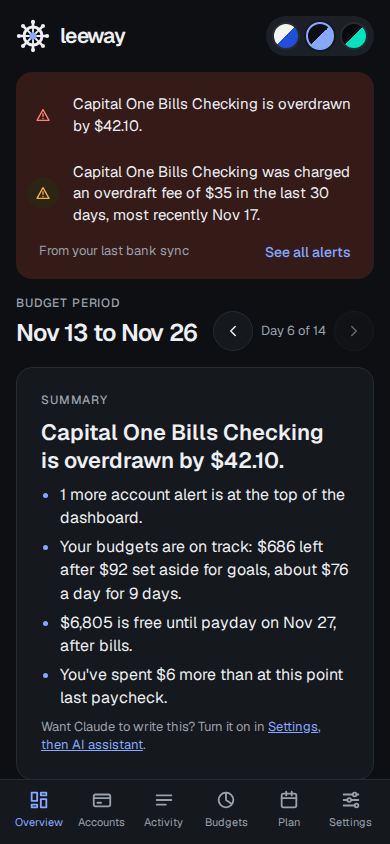
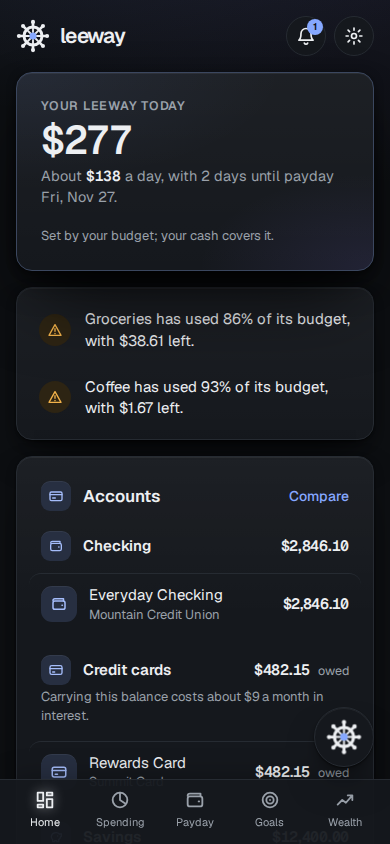
Refresh the README for the five tabs and Ask Leeway, with new screenshots
The top now walks through Home, Spending, Payday, Goals and Wealth, one line
each, then Ask Leeway and what runs across them. Stale names are gone: the
Chat section is now Ask Leeway, grounded in a snapshot of your finances, and
paths to imports, paystubs, bills and the inbox follow the new tabs. A new
Install as an app section covers iPhone, Android and computers.

Screenshots are retaken from a locally seeded server with invented data:
each tab, Home on a phone, Ask Leeway with its starter questions, and the
setup screen. The old overview, accounts, budgets and plan shots are removed.

Changed region(s): [[0.0308, 0.0616, 0.9846, 0.9858], [0.7077, 0.0, 0.8615, 0.0616], [0.8923, 0.0308, 0.9538, 0.0616]]

diff --git a/README.md b/README.md
@@ -4,72 +4,75 @@
 
 # Leeway
 
-A free budget tracker you host yourself, with bank sync and a secure link for
-your AI assistant.
+A free budget tracker you host yourself. It shows what you can safely spend
+today, syncs with your bank, and answers questions about your money from your
+own numbers.
 
 Your financial data stays on your own server. It leaves only to talk to your
-bank, and nothing in Leeway can ever move money.
+bank, and to Claude if you turn on its AI features. Nothing in Leeway can ever
+move money.
 
-**What it does**
+![Home: what you can spend today, a Heads up on two budgets, your accounts, bills due by payday and the latest activity](docs/screenshots/home.png)
 
-- **Budgets** by month, paycheck or week, with a safe amount to spend per day
-  and a warning before you go over.
-- **Bank sync** through Plaid, or **CSV import** and accounts added by hand
-  if you'd rather not connect a bank.
-- **An overview dashboard** you arrange yourself: what is left to spend, net
-  worth, account alerts, money in against money out, and your spending pace.
-- **An accounts dashboard** for one account or several: balances, money in and
-  out, spending by category and recent transactions.
-- **Account alerts** when an account is overdrawn, a card is over its limit, a
-  balance is low or an overdraft fee was charged, and for money leaking away:
-  a charge that went through twice, or a repeating charge that went up in price.
-- **Planning**: bills and subscriptions, recurring charges found for you,
-  savings goals, debt payoff plans, cash until payday (and cash in checking
-  that could earn more in savings, at a stated rate) and net worth.
-- **The weeks ahead** on Payday: the next two weeks, and six weeks a tap
-  deeper, of paydays and bills, plus events like trips and weddings if you
-  connect a calendar by its private link, with what to set aside for each
-  from what past ones cost. Only events likely to cost money are kept.
-- **Trips**: with a calendar linked, the spending around time away, from
-  your calendar or from a run of travel charges, gathered on one page by part
-  (getting there, a place to stay, food, things to do). Each purchase counts
-  for one trip or event only, as in the weeks ahead. A transaction on a trip
-  links to it.
-- **Trip budgets**: plan a coming trip by its parts and it becomes one savings
-  goal, set aside for by the day you leave; during the trip its page shows
-  what is left of each part.
-- **Savings and investments**: savings, retirement and investing accounts
-  sorted for you (or as you mark them), daily balance history, an emergency
-  fund counted in months of essential spending, and your savings rate. An AI
-  assistant can read all of it today.
-- **Credit card interest in dollars**: what carrying each card's balance past
-  the due date costs a month at its APR, and all your cards together. Add a
-  card's APR from its statement.
-- **A tax-ready export**: a year of transactions from every account, hidden
-  ones included, as a CSV grouped by category with totals. A summary at the
-  end gives pay by source, interest, dividends, benefits, tax refunds and
-  rewards, and "Possible income to categorize" for deposits still to sort.
-  Support payments and money from people are never counted as pay.
-  Transfers between your own accounts are left out, and categories that may
-  be deductible are flagged for you to check with a tax pro (Settings, then
-  Data). It is a summary, not tax advice.
-- **An AI coach.** Claude, or any assistant that speaks MCP, can check in on
-  your money with your real numbers. You choose whether it may only look or
-  also change budgets.
-- **Works on laptop and phone**, and installs to your home screen like an app.
+**Five tabs, each answering one question**
+
+- **Home: am I OK right now?** What you can spend today and a Heads up when
+  something needs you, then cards you arrange: every account, bills due by
+  payday, the latest activity and a summary of each tab.
+- **Spending: am I on budget?** This period against your budgets (by month,
+  paycheck or week), your spending pace, each category and every transaction.
+  Step back to earlier periods, or see spending over time and top merchants.
+- **Payday: will I make it to payday?** This paycheck, from pay to what is
+  left for everyday spending, cash until payday and the next two weeks of
+  paydays and bills. A tap deeper: bills and subscriptions (with repeating
+  charges found for you), your pay, and the six weeks ahead.
+- **Goals: am I on track?** What to set aside each paycheck, "Can I afford
+  it?", an emergency fund counted in months of essentials, savings goals in
+  the order they are funded, and yearly costs.
+- **Wealth: am I getting ahead?** Net worth and its trend, then debts and
+  payoff plans, retirement, your savings rate, things you own and owe, and
+  checking money that could earn more in savings.
+
+**Ask Leeway.** A round logo button on every screen opens a chat that answers
+money questions from your own numbers, like "Can I afford a PS5 Pro right
+now?". It can read everything and change nothing. It needs an Anthropic API
+key; without one the button is not there. See [Ask Leeway](#ask-leeway-optional).
+
+**Also**
+
+- **Bank sync** through Plaid, or **CSV import** and accounts added by hand.
+- **Alerts** in an inbox and as push notifications: an overdrawn account, a
+  bill coming due, a budget used up, a charge made twice or a repeating charge
+  gone up in price.
+- **An AI coach over MCP.** Claude, or any assistant that speaks MCP, can
+  check in on your money with your real numbers. You choose whether it may
+  only look or also change budgets.
+- **Installs as an app** on your phone or computer
+  ([how](#install-as-an-app)), with a home-screen widget for iPhone, iPad and
+  Mac.
+- **Never moves money.** Bank access is read-only.
+- **Self-hosted**, on Railway, with Docker or from source.
+- **Trips and events** from a calendar you link by its private link, next to
+  your bills, with what to set aside for each from what past ones cost.
+- **A tax-ready export**: a year of transactions as a CSV grouped by
+  category, with pay, interest and other income summed up and categories that
+  may be deductible flagged (**Settings**, then **Data**). Money from people
+  is never counted as pay. It is a summary, not tax advice.
+- **Three themes**, Night, Harbor and Neon, each light or dark. Color on a
+  number means status only: green is good, and red is kept for problems.
 
 ## Screenshots
 
-![The overview dashboard: what is left to spend, net worth, an account alert, money in against money out and the spending pace](docs/screenshots/overview.png)
-
-| Accounts dashboard                                                                 | Budgets                                                                          |
-| ---------------------------------------------------------------------------------- | -------------------------------------------------------------------------------- |
-| ![The accounts dashboard with every account picked](docs/screenshots/accounts.png) | ![Budgets by category, with what is left per day](docs/screenshots/budgets.png)  |
-| **Plan: goals and cash until payday**                                              | **First run: the setup wizard**                                                  |
-| ![Savings goals with progress and a projected date](docs/screenshots/plan.png)     | ![The first setup screen, asking for the setup code](docs/screenshots/setup.png) |
+| Spending                                                                                                   | Payday                                                                                                |
+| ---------------------------------------------------------------------------------------------------------- | ----------------------------------------------------------------------------------------------------- |
+| ![Spending: spent this paycheck against the budgets, and the spending pace](docs/screenshots/spending.png) | ![Payday: this paycheck from pay to what is left, and cash until payday](docs/screenshots/payday.png) |
+| **Goals**                                                                                                  | **Wealth**                                                                                            |
+| ![Goals: an emergency fund to start, and goals in the order they are funded](docs/screenshots/goals.png)   | ![Wealth: net worth and how it grew over a year](docs/screenshots/wealth.png)                         |
+| **Ask Leeway**                                                                                             | **First run: the setup screens**                                                                      |
+| ![Ask Leeway open beside Home, with questions to start from](docs/screenshots/ask.png)                     | ![The first setup screen, asking for the setup code](docs/screenshots/setup.png)                      |
 
 <p align="center">
-  <img src="docs/screenshots/phone.png" alt="The overview on a phone" width="300">
+  <img src="docs/screenshots/phone.png" alt="Home on a phone, with the tab bar at the bottom" width="300">
 </p>
 
 The screenshots use invented demo data.
@@ -80,6 +83,7 @@ The screenshots use invented demo data.
 - [Bank sync with Plaid](#bank-sync-with-plaid)
 - [Configuration](#configuration)
 - [Connect an AI assistant](#connect-an-ai-assistant)
+- [Install as an app](#install-as-an-app)
 - [Home-screen widget](#home-screen-widget)
 - [Security](#security)
 - [Updating and backups](#updating-and-backups)
@@ -182,8 +186,8 @@ Leeway prints at startup that starts `No account yet`.
 ## Bank sync with Plaid
 
 Bank sync is optional. Without it, import CSV files from your bank
-(**Transactions**, then **Import a file**) or add accounts by hand
-(**Settings**, then **Accounts**). [Plaid](https://plaid.com) is the service
+(**Spending**, then **All activity**, then **+** and **Import a file**) or add
+accounts by hand (**Settings**, then **Accounts**). [Plaid](https://plaid.com) is the service
 many budgeting apps use to reach banks. Leeway uses it only to read balances
 and transactions.
 
@@ -243,10 +247,10 @@ with a note.
 | `PLAID_COUNTRY_CODES`   | No       | Countries to offer banks from, like `US,CA`. Default `US`.             |
 | `PLAID_REDIRECT_URI`    | No       | Needed by some banks that sign in through their own site.              |
 | `SYNC_INTERVAL_MINUTES` | No       | How often to sync banks, default 360. `0` turns it off.                |
-| `ANTHROPIC_API_KEY`     | No       | Turns on Chat, the dashboard summary by Claude and paystub reading.    |
+| `ANTHROPIC_API_KEY`     | No       | Turns on Ask Leeway, the summary by Claude and paystub reading.        |
 | `SUMMARY_MODEL`         | No       | Fixes the summary's Claude model, instead of choosing it in Settings.  |
 | `PAYSTUB_MODEL`         | No       | Fixes the paystub reader's model, instead of choosing it in Settings.  |
-| `CHAT_MODEL`            | No       | Fixes Chat's model, instead of choosing it in Settings.                |
+| `CHAT_MODEL`            | No       | Fixes Ask Leeway's model, instead of choosing it in Settings.          |
 | `RESEND_API_KEY`        | No       | Lets Leeway send the weekly email.                                     |
 | `MAIL_FROM`             | No       | The weekly email's sender, like `Leeway <leeway@example.com>`.         |
 | `DATABASE_SSL`          | No       | `true` or `false`. By default, TLS for any database not on this host.  |
@@ -257,8 +261,9 @@ On Railway, `PUBLIC_URL` is filled in from the generated domain.
 
 ### Claude-written summary (optional)
 
-Leeway writes the dashboard summary from your numbers on its own. To have
-Claude write it instead, set `ANTHROPIC_API_KEY` (from the
+Leeway writes the summary (Home's **Summary** card, which **Edit layout**
+adds, and the weekly email) from your numbers on its own. To have Claude write
+it instead, set `ANTHROPIC_API_KEY` (from the
 [Anthropic Console](https://console.anthropic.com)), then turn on **Have Claude
 write it** in **Settings**, then **AI assistant**. Nothing is sent until you
 turn it on. Claude then gets this period's totals, the Heads up list, bill and
@@ -271,14 +276,15 @@ cent on your own Anthropic account. The model and a monthly limit are set in
 
 ### Paystub import (optional)
 
-With `ANTHROPIC_API_KEY` set, **Import a paystub** appears in **Plan**, then
-**Retirement**, and on a pension's form. Upload a PDF, PNG or JPEG of a
-paystub (a PDF of up to 10 MB or a photo of up to 5 MB, a page or two long)
-and Claude reads its pay, pension, 401(k), 457, 403(b) and HSA figures, this
-period's and the year's.
-You see each figure with the line it came from and how sure Claude is, change
-any of them, and choose whether they update a pension or your monthly
-retirement saving. Nothing is saved until you choose **Save**.
+With `ANTHROPIC_API_KEY` set, **Import a paystub** appears in **Payday**, then
+**Your pay**; in **Wealth**, then **Retirement**, and on a pension's form; in
+**Settings**, then **Paystub**; and in the setup screens. Upload a PDF, PNG or
+JPEG of a paystub (a PDF of up to 10 MB or a photo of up to 5 MB, a page or
+two long) and Claude reads its pay, pension, 401(k), 457, 403(b) and HSA
+figures, this period's and the year's. You see each figure with the line it
+came from and how sure Claude is, change any of them, and choose whether they
+update a pension or your monthly retirement saving. Nothing is saved until you
+choose **Save**.
 
 - The whole file goes to Anthropic as it is, with a fixed instruction. That
   includes any Social Security number, account number or address printed on
@@ -300,20 +306,22 @@ retirement saving. Nothing is saved until you choose **Save**.
 An iPhone photo saved as HEIC is not read yet; take a screenshot of it, or set
 the camera to **Most Compatible**.
 
-### Chat (optional)
+### Ask Leeway (optional)
 
-With `ANTHROPIC_API_KEY` set, **Chat** asks Claude about your money in your
-own words, like "Can I afford a PS5 Pro right now?". **Ask Leeway**, a round
-logo button in the bottom right of every screen, opens it in a box there that
-knows which screen you are on; press and hold any card (or right click it) to
-ask about that card, or press "/". Without a key there is no Chat at all: no
-button, no page.
+With `ANTHROPIC_API_KEY` set, **Ask Leeway** answers questions about your
+money in your own words, like "Can I afford a PS5 Pro right now?". Its round
+logo button sits in the bottom right of every screen and opens a panel there
+that knows which screen you are on. Press and hold any card (or right click
+it) to ask about that card, or press "/". Without a key there is no button and
+no page.
 
-- Claude answers by reading Leeway through the same read-only tools an
-  assistant gets, so it can look at everything and change nothing. A purchase
-  question is checked against the cash you have before payday, the bills due
-  by then, your goals and your budgets, and when it doesn't fit, how many
-  budget periods of saving it takes.
+- Each question goes with a short snapshot of your finances: what you can
+  spend now, this period, bills by payday, debts, net worth, what needs
+  attention, pay, savings and goals. For more, Claude reads Leeway through the
+  same read-only tools an assistant gets, so it can look at everything and
+  change nothing. A purchase question is checked against the cash you have
+  before payday, the bills due by then, your goals and your budgets, and when
+  it doesn't fit, how many budget periods of saving it takes.
 - Tell it something that will matter later, like a trip you are saving for,
   and it remembers it. **Leeway remembers** under the conversation lists each
   thing, and **Forget** deletes it. **Start over** deletes the conversation
@@ -323,17 +331,17 @@ button, no page.
   paid by, or name in a category, goal or account, appear as "someone".
 - The conversation is kept on your server: only the words of each question
   and answer, saved once the answer is finished.
-- Chat runs on Claude Haiku 5.5 unless you pick another model in **Settings**,
-  then **AI models**. Its fixed instructions and tools are cached, which
-  makes each further step of an answer much cheaper. An answer takes up to 6
-  calls, one question runs at a time, at most 10 are asked a minute, and Chat
-  stops for the day after about 600,000 tokens (cache reads count a tenth),
-  starting again at midnight in your time zone. Every call also counts
-  against the monthly limit below.
+- It runs on Claude Haiku 5.5 unless you pick another model for its job
+  (**Chat**) in **Settings**, then **AI models**. Its fixed instructions,
+  tools and snapshot are cached, which makes each further step of an answer
+  much cheaper. An answer takes up to 6 calls, one question runs at a time, at
+  most 10 are asked a minute, and it stops for the day after about 600,000
+  tokens (cache reads count a tenth), starting again at midnight in your time
+  zone. Every call also counts against the monthly limit below.
 
 ### AI models and the monthly limit
 
-Every paid AI call, Chat, the summary and the paystub reader, goes through
+Every paid AI call, Ask Leeway, the summary and the paystub reader, goes through
 one place that picks the model, checks a monthly limit and records what the
 call cost. **Settings**, then **AI models** shows:
 
@@ -347,11 +355,11 @@ How the limit works:
 
 - The month follows the time zone in **Settings**, then **Budgeting**.
 - Before each call, Leeway works out the most it could cost: the prompt
-  (counted free by Anthropic for a paystub file, estimated from its length
-  for the summary's short text and each Chat step) as if every token were a cache write, plus
-  the most output the call may use. If that would take the month past the
-  limit, the call is not made. The summary is then Leeway's own, and the
-  paystub reader says the limit is reached and when it resets.
+  (counted free by Anthropic for a paystub file, estimated from its length for
+  the summary's short text and each Ask Leeway step) as if every token were a
+  cache write, plus the most output the call may use. If that would take the
+  month past the limit, the call is not made. The summary is then Leeway's
+  own, and the paystub reader says the limit is reached and when it resets.
 - After the call, the tokens it really used (input, output, cache reads and
   writes) are priced and recorded. Prices are Anthropic's list prices,
   checked on 2026-11-19, so your Anthropic bill is the final word.
@@ -368,21 +376,21 @@ How the limit works:
   where it was asked for. Either alert can be dismissed, and a new limit
   starts the month's alerts over.
 - Each usage record holds token counts and a cost, never what was asked or
-  answered. Chat keeps its own conversation in your database until you tap
-  Start over.
+  answered. Ask Leeway keeps its own conversation in your database until you
+  tap Start over.
 
-`SUMMARY_MODEL`, `PAYSTUB_MODEL` or `CHAT_MODEL` fixes that job's model on the server, and
-Settings then shows it locked. When Anthropic says it has no such model
-(retired or mistyped), Settings and the summary card say so and where to pick
-another, and a model with an announced retirement day shows that day. A model
-Leeway has no price for is counted at the price of the dearest model it knows,
-so the limit still holds. No assistant can see or change any of this over MCP,
-since it decides what is spent on your Anthropic account; an assistant still
-sees the chosen models and the limit in Leeway's settings.
+`SUMMARY_MODEL`, `PAYSTUB_MODEL` or `CHAT_MODEL` fixes that job's model on the
+server, and Settings then shows it locked. When Anthropic says it has no such
+model (retired or mistyped), Settings and the summary card say so and where to
+pick another, and a model with an announced retirement day shows that day. A
+model Leeway has no price for is counted at the price of the dearest model it
+knows, so the limit still holds. No assistant can see or change any of this
+over MCP, since it decides what is spent on your Anthropic account; an
+assistant still sees the chosen models and the limit in Leeway's settings.
 
 ### Weekly email (optional)
 
-Once a week, Leeway can email you any account alerts, the dashboard summary,
+Once a week, Leeway can email you any account alerts, the summary,
 what's left this period, bills before payday and your goals. It sends through
 [Resend](https://resend.com), since many hosts block outgoing SMTP.
 
@@ -398,10 +406,10 @@ change the email or its address.
 
 ### Notifications (nothing to set)
 
-The bell at the top of every screen opens the **inbox**: each alert as it
-happens, newest first. Open one to go to the screen that explains it (it is
-then read), or dismiss it. Leeway checks every few minutes and after each bank
-sync, and tells you about:
+The bell (in the phone's header, and **Inbox** at the foot of the sidebar)
+opens the **inbox**: each alert as it happens, newest first. Open one to go to
+the screen that explains it (it is then read), or dismiss it. Leeway checks
+every few minutes and after each bank sync, and tells you about:
 
 - an account overdrawn, a card over its limit, an overdraft fee, or a balance
   under its low-balance warning;
@@ -431,11 +439,11 @@ A problem you dismiss that is still there a day later, like an account still
 overdrawn, a bill still unpaid or a bank still waiting for you to sign in,
 comes back unread, with no second push. Everything else stays dismissed: a fee
 or a large charge is news, and a budget gone over can't be undone until the
-next period. Dismissing an account alert takes it off the home screen too; a
+next period. Dismissing an account alert takes it off Home too; a
 problem like an overdrawn account stays off only while its kind of
 notification is on.
-Each account alert on the home screen also has a close button, which hides it
-from home only and leaves the inbox as it was. A hidden fee stays hidden, and
+Each account alert in Home's Heads up also has a close button, which hides it
+from Home only and leaves the inbox as it was. A hidden fee stays hidden, and
 any other alert comes back after a day if it is still there. An alert that
 clears for over an hour and then returns counts as new and shows again.
 
@@ -445,9 +453,9 @@ encrypted under your `ENCRYPTION_KEY`; they are never in your variables or
 logs. In **Settings**, then **Notifications**, press **Turn on** on each device
 that should get pushes, and **Send a test notification** to see one.
 
-- **On iPhone and iPad**, push works only once Leeway is on the Home Screen:
-  open it in Safari, tap Share, then **Add to Home Screen**, and open it from
-  there. The Settings screen says so when it is needed.
+- **On iPhone and iPad**, push works only once Leeway is
+  [installed](#install-as-an-app) and opened from the Home Screen. The
+  Settings screen says so when it is needed.
 - **Quiet hours** (10 PM to 7 AM in your time zone, by default) hold pushes
   until they end; the inbox still gets each alert at once.
 - **A burst becomes one push.** Leeway sends at most one push every 15
@@ -517,6 +525,22 @@ authorization spec describes, with discovery at
 or dynamic registration. Access tokens last an hour; refresh tokens last 90
 days and change on every use.
 
+## Install as an app
+
+Leeway installs from the browser, with no app store, and then opens in its own
+window with the tab bar at the bottom on a phone. Install it from its `https`
+address (Railway gives you one).
+
+- **iPhone and iPad:** open Leeway in Safari, tap Share, then **Add to Home
+  Screen**. Push notifications on iPhone and iPad need this.
+- **Android:** open Leeway in Chrome, open the menu and choose **Add to Home
+  screen** or **Install app**.
+- **Mac, Windows or Linux:** open Leeway in Chrome or Edge and choose the
+  install button at the right of the address bar.
+
+An installed Leeway left open loads a new version on its own at the next quiet
+moment, so there is nothing to reinstall after an update.
+
 ## Home-screen widget
 
 Leeway has a widget for your iPhone or iPad home screen and, on a Mac with
@@ -524,8 +548,8 @@ Apple silicon, your desktop. It runs in [Scriptable](https://scriptable.app),
 a free app, and shows what you have safe to spend (or, before you set any
 budgets, your cash until payday), this period's budget left, your net worth
 and how it moved in 30 days, the next bills due, and how many accounts are
-overdrawn, over their limit or low. It comes in small, medium and large, follows your Leeway
-theme and dark mode, and refreshes about every 30 minutes.
+overdrawn, over their limit or low. It comes in small, medium and large,
+follows your Leeway theme and dark mode, and refreshes about every 30 minutes.
 
 ![Settings > Widget, with the widget's parameter shown once, the script to copy or download, and the setup steps](docs/screenshots/widget-settings.png)
 
@@ -546,8 +570,8 @@ nothing else; no other key or session can read the summary. The summary
 names bills by the names Leeway shows, counts account alerts without naming
 the accounts, and never holds an account number, mask or transaction text. A
 bill you made from a recurring charge starts out named as the bank wrote it,
-so rename it under Bills in **Plan** if you'd rather the widget said
-something else. The widget only sends the token over `https`, so it needs
+so rename it in **Payday**, then **Bills and subscriptions**, if you'd rather
+the widget said something else. The widget only sends the token over `https`, so it needs
 Leeway at a public address, as Railway gives you. Making a new token
 replaces the old one, and **Revoke** stops it at once.
 
